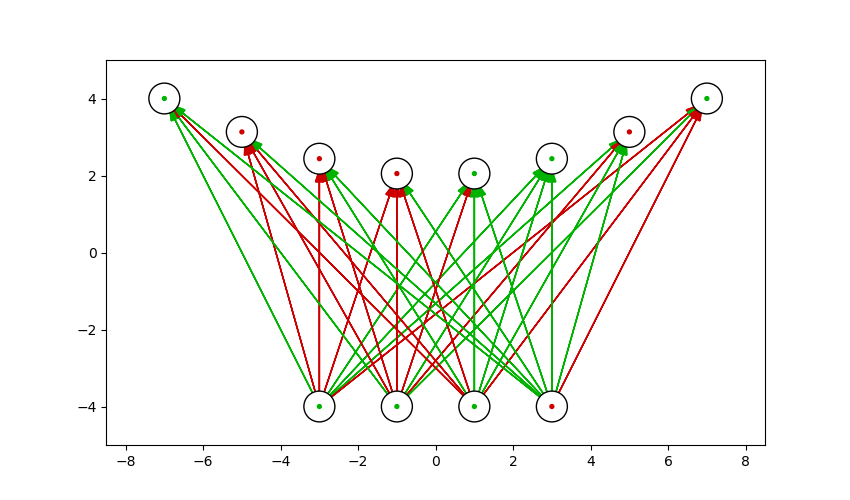
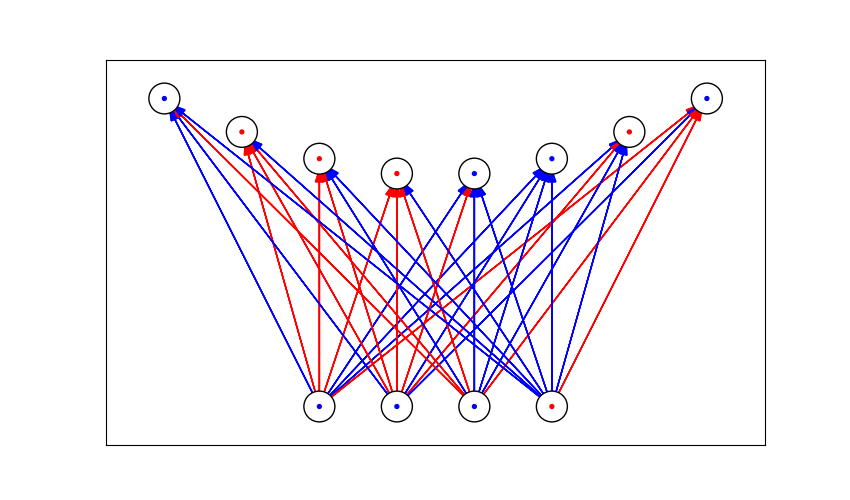
added instructions

diff --git a/plotNetwork.py b/plotNetwork.py
@@ -24,8 +24,8 @@ width = (xmax - xmin)*scale
 height = (ymax - ymin)*scale
 xmargin = (xmax - xmin - 1)/8
 
-inhibColor = [0.8,0,0]
-excitColor = [0,0.7,0]
+inhibColor = [1,0,0]
+excitColor = [0,0,1]
 
 arrowDist = 0.6
 neuronRadius = 0.4
@@ -77,10 +77,11 @@ def readFile(filename):
 
 def plotNetwork(nbOfInputs, nbOfOutputs, neurons, connections):
    ax = plt.axes()
+   ax.axes.xaxis.set_visible(False)
+   ax.axes.yaxis.set_visible(False)
 
    nbOfHidden = len(neurons) - nbOfInputs - nbOfOutputs
    positions = [(0,0)]*len(neurons)
-
 
    inputsPlaced = 0.0
    outputsPlaced = 0.0
